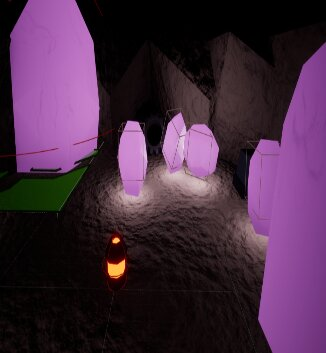
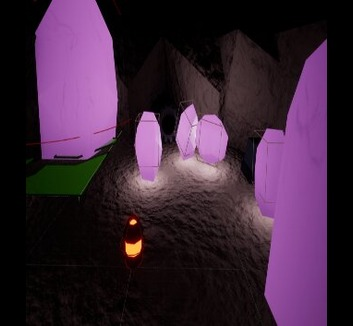
resized

diff --git a/index.html b/index.html
@@ -34,7 +34,7 @@
 							<section class="tiles">
 								<article class="style1">
 									<span class="image">
-										<img src="images/cavernspic.jpg" alt="Cave with Crystals" style="width:360.88px;height:333.27;">
+										<img src="images/cavernspic.jpg" alt="Cave with Crystals">
 									</span>
 									<a href="https://youtu.be/zhEmY83Ipq8?si=GmjiWVEkqz5s1hGD" target="_blank">
 										<h2>Corrupted Crystal Caverns</h2>
